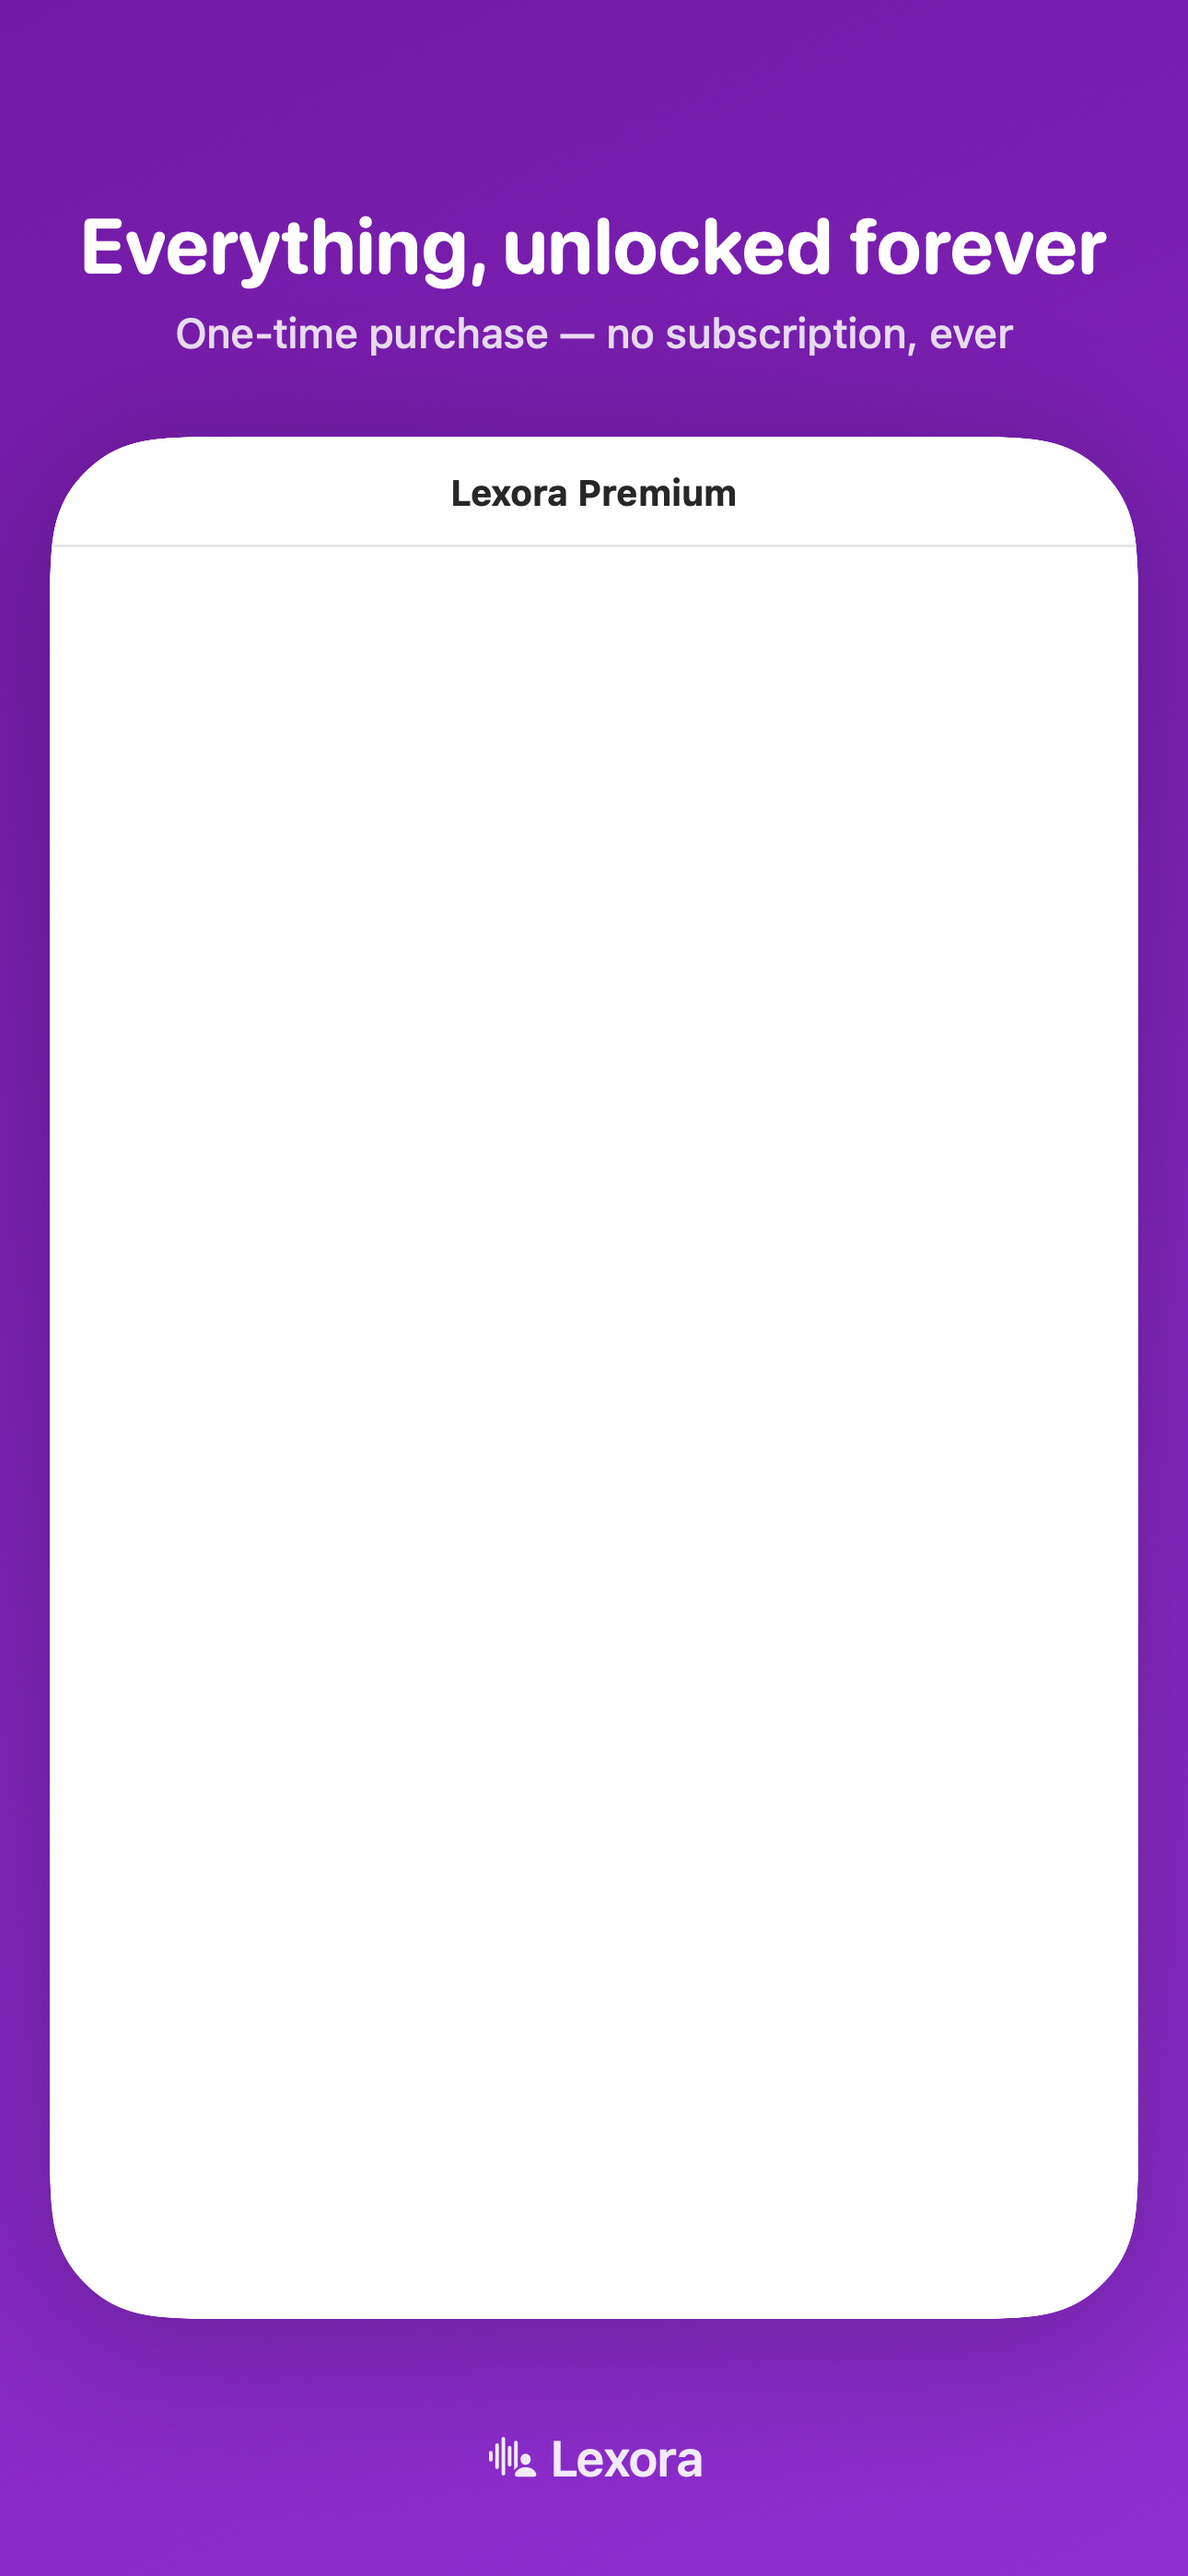
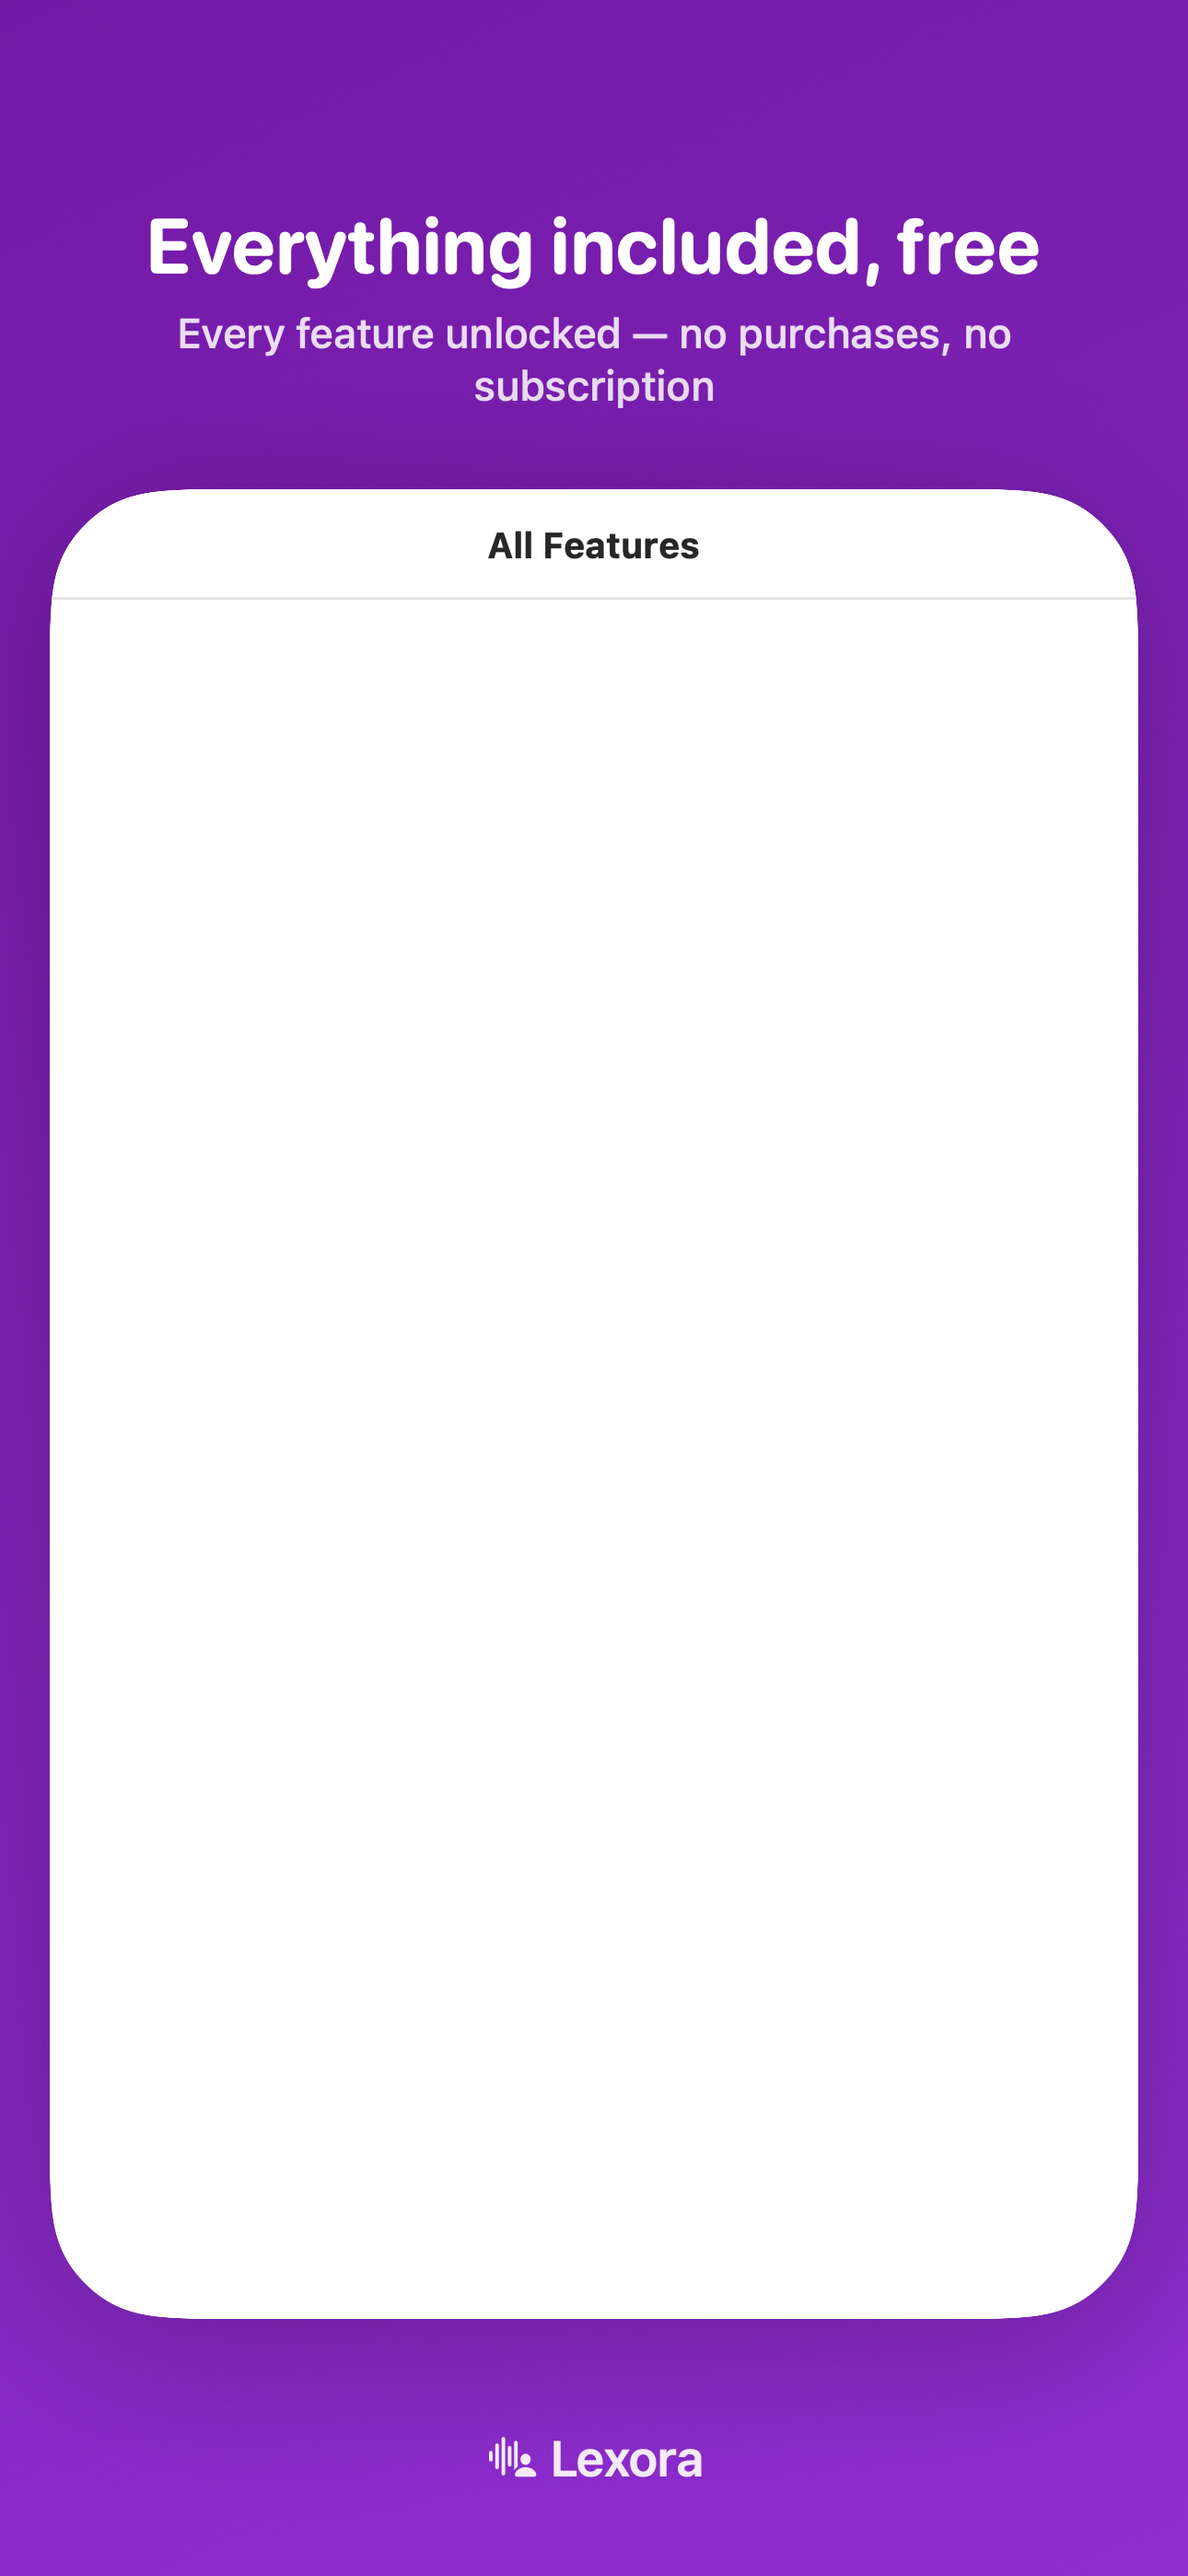
Align marketing assets with free model (pricing suspended)
- metadata.md: Price → "Free — all features included, no IAP"; description
  reframed from "Lexora Premium — one-time purchase" to "Also included —
  everything, free"; removed "Premium required" from What's New; App Review
  notes now say no IAP to test; In-App Purchase section replaced with a
  "None / how to re-enable" note.
- Screenshot 5: reworked from a $4.99 paywall to an "Everything included,
  free" feature showcase; regenerated PNG at 1290×2796.

Mirrors StoreService.monetizationEnabled = false. Re-enable instructions
retained in metadata + StoreService for a future flip.

Changed region(s): [[0.031, 0.0622, 0.9612, 0.2489], [0.8372, 0.0933, 0.9302, 0.1245]]

diff --git a/Lexora/Views/Screenshots/AppStoreScreenshots.swift b/Lexora/Views/Screenshots/AppStoreScreenshots.swift
@@ -439,12 +439,12 @@ private let premiumFeatures: [PremiumFeature] = [
 private struct Screenshot5_Premium: View {
     var body: some View {
         ScreenshotFrame(
-            headline: "Everything, unlocked forever",
-            subhead: "One-time purchase — no subscription, ever",
+            headline: "Everything included, free",
+            subhead: "Every feature unlocked — no purchases, no subscription",
             gradient: [Color(red: 0.45, green: 0.10, blue: 0.65), brandMid]
         ) {
             VStack(spacing: 0) {
-                fakeNavBar("Lexora Premium")
+                fakeNavBar("All Features")
                 ScrollView {
                     VStack(spacing: 16) {
                         crownIcon
@@ -499,7 +499,7 @@ private struct Screenshot5_Premium: View {
     }
 
     private var ctaButton: some View {
-        Text("Upgrade for $4.99")
+        Text("Start dictating — it's all free")
             .font(.headline)
             .frame(maxWidth: .infinity)
             .padding(.vertical, 16)

diff --git a/AppStore/metadata.md b/AppStore/metadata.md
@@ -14,7 +14,7 @@ All character counts are verified against Apple's limits.
 | **Category (Primary)** | Productivity |
 | **Category (Secondary)** | Utilities |
 | **Content Rating** | 4+ |
-| **Price** | Free — 60-day full trial, then $4.99 one-time (Premium IAP) |
+| **Price** | Free — all features included, no in-app purchases |
 | **Bundle ID** | com.yiga.Lexora |
 | **SKU** | LEXORA-1 |
 
@@ -43,9 +43,9 @@ Unlike basic voice-to-text apps, Lexora gets smarter every time you use it. Ever
 • Keyboard extension: dictate into any text field, system-wide
 • Siri Shortcuts: start recordings, query word counts, and more
 
-**Lexora Premium — one-time purchase**
+**Also included — everything, free**
 
-• Unlimited session history (free trial includes everything for 60 days)
+• Unlimited session history
 • AI Insights: GPT-4o mini generates abstractive summaries, extracts action items, and suggests follow-up questions — using your own OpenAI key, stored securely in the iOS Keychain
 • Reading Mode: distraction-free transcript reader with adjustable font size and a live progress bar
 • Export as HTML webpage (dark-mode aware, print-ready, shareable)
@@ -82,7 +82,7 @@ Welcome to Lexora! First release on the App Store.
 
 Lexora learns how you speak — your vocabulary, your accent, your pacing — and gets more accurate with every recording. Dictate in any language, edit transcripts, export to PDF or SRT, sync to iCloud, and dictate system-wide with the included keyboard extension.
 
-Optional: add your OpenAI API key in Settings to unlock AI-powered summaries and action-item extraction (Lexora Premium required).
+Optional: add your OpenAI API key in Settings to enable AI-powered summaries and action-item extraction.
 
 ---
 
@@ -133,7 +133,7 @@ https://kayiga.github.io/lexora/privacy.html
 
 **Speech recognition permission:** Required for on-device transcription. Grant when prompted.
 
-**Premium IAP (com.yiga.Lexora.premium — $4.99):** Can be tested via the "Restore Purchases" button in Settings. In the Sandbox environment, purchases are free.
+**Pricing:** The app is free with all features unlocked — there are no in-app purchases to test.
 
 **Keyboard extension:** To test LexoraKeyboard, go to Settings → General → Keyboard → Keyboards → Add New Keyboard → Lexora → enable Allow Full Access. Then open any text field, tap the globe key, select Lexora, and tap the microphone button.
 
@@ -159,20 +159,18 @@ Screenshots depict (in order):
 2. Recording — live waveform, real-time transcript, word count HUD
 3. AI Insights — summary, action items, follow-up suggestions
 4. Analytics — language chart, words-per-minute graph
-5. Premium paywall — feature grid, one-time price
+5. Feature showcase — everything included, free
 
 ---
 
 ## In-App Purchase
 
-| Field | Value |
-|---|---|
-| **Reference Name** | Lexora Premium |
-| **Product ID** | com.yiga.Lexora.premium |
-| **Type** | Non-Consumable |
-| **Price** | Tier 5 — $4.99 |
-| **Display Name** | Lexora Premium |
-| **Description** | Unlimited history, AI insights, reading mode, HTML & Obsidian export, and full analytics. One-time purchase. |
+None. The app is free with every feature unlocked.
+
+> Monetization is currently suspended (`StoreService.monetizationEnabled = false`).
+> The StoreKit product `com.yiga.Lexora.premium` (Non-Consumable, was Tier 5 / $4.99)
+> remains in code and can be re-enabled later by flipping that flag and creating
+> the IAP in App Store Connect.
 
 ---
 
